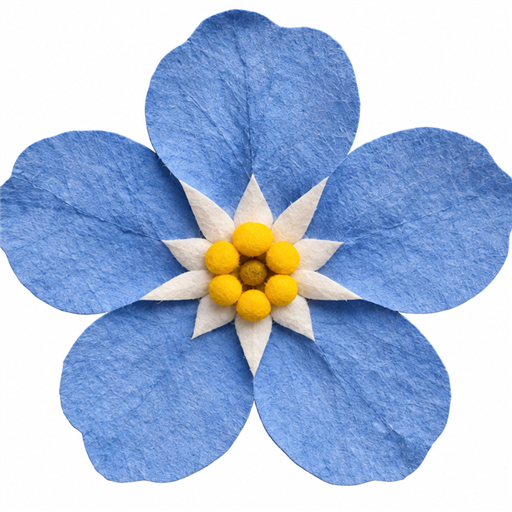
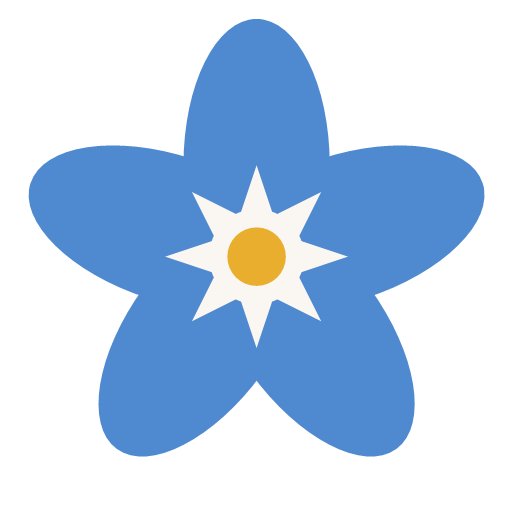
Flor del símbolo: sol de rayos y botón amarillo (Guía del símbolo)
Sustituye el centro plano de la flor (disco + punto azul) por el sol de
rayos blancos y el botón amarillo que describe la guía de marca de la
promotora (2026-11-18): --color-flower pasa a su azul definitivo
(#4F8AD0) y se añaden --color-flower-button (#E9AE2E) y --color-ocre
(#C8965C) como tokens nuevos, sin tocar --color-tinta del texto general
(se queda en verde oliva, a petición explícita).

Aplicado en FlowerIcon.tsx (cabecera, panel admin) y en el centro del
marcador del mapa (sin los rayos, ilegibles a ese tamaño — solo el botón
amarillo). Favicon (app/icon.png, apple-icon.png) regenerado desde el
mismo diseño, fondo transparente.

--color-flower-ink (#2C2217, versión a una tinta del símbolo) queda
definido para uso futuro, todavía sin aplicar en ningún componente.

diff --git a/components/FlowerIcon.tsx b/components/FlowerIcon.tsx
@@ -3,11 +3,14 @@ type Props = {
   className?: string
 }
 
-// La flor del no-me-olvides: 5 pétalos en torno a un centro claro.
-// Usada en la cabecera pública y en el panel de administración.
-// Color azul de la propia flor (--color-flower, fuera de la paleta de 3
-// colores a propósito — es la firma del símbolo, no del texto/UI; terracota
-// sigue reservado para botones, enlaces y marcadores del mapa).
+// La flor del no-me-olvides: 5 pétalos azules en torno al sol de rayos
+// blancos (el centro real de la flor) y un botón amarillo — construida
+// siguiendo la "Guía del símbolo" de la promotora (2026-11-18). Usada en
+// la cabecera pública, el panel de administración y el favicon.
+// Azul de los pétalos (--color-flower) y amarillo del botón
+// (--color-flower-button) fuera de la paleta de 3 colores a propósito —
+// son la firma del símbolo, no del texto/UI; terracota sigue reservado
+// para botones, enlaces y marcadores del mapa.
 export function FlowerIcon({ size = 26, className }: Props) {
   return (
     <svg
@@ -31,8 +34,18 @@ export function FlowerIcon({ size = 26, className }: Props) {
           transform={`rotate(${deg} 14 14) translate(0 -5)`}
         />
       ))}
-      <circle cx="14" cy="14" r="4" fill="var(--color-papel)" />
-      <circle cx="14" cy="14" r="2.5" fill="var(--color-flower)" />
+      <g transform="translate(14 14)">
+        {[0, 45, 90, 135, 180, 225, 270, 315].map((deg) => (
+          <polygon
+            key={deg}
+            points="-0.9,2.3 0.9,2.3 0,5"
+            fill="var(--color-papel)"
+            transform={`rotate(${deg})`}
+          />
+        ))}
+        <circle cx="0" cy="0" r="2.6" fill="var(--color-papel)" />
+        <circle cx="0" cy="0" r="1.6" fill="var(--color-flower-button)" />
+      </g>
     </svg>
   )
 }

diff --git a/app/globals.css b/app/globals.css
@@ -38,11 +38,18 @@
   --color-sage-dark:       var(--color-olivo);
   --color-cream:           var(--color-papel);
   --color-cream-dark:      var(--color-papel-hondo);
-  /* La flor del no-me-olvides recupera su azul real (fuera de la paleta de
-     3 colores a propósito): es el color de la planta en la naturaleza, y
-     queda como firma de marca solo para el símbolo — nunca para texto,
-     botones o enlaces, que siguen en terracota. */
-  --color-flower:          #6B8CB8;
+  /* La flor del no-me-olvides (fuera de la paleta de 3 colores a
+     propósito): es el color de la planta en la naturaleza, y queda como
+     firma de marca solo para el símbolo — nunca para texto, botones o
+     enlaces, que siguen en terracota. Valores de la "Guía del símbolo"
+     (2026-11-18): pétalos azules, sol de rayos en --color-papel y botón
+     amarillo en el centro. --color-flower-ink (marrón oscuro) es solo para
+     la versión a una tinta del símbolo — NO sustituye a --color-tinta del
+     texto general, que sigue en verde oliva a petición de la promotora. */
+  --color-flower:          #4F8AD0;
+  --color-flower-button:   #E9AE2E;
+  --color-flower-ink:      #2C2217;
+  --color-ocre:            #C8965C;
   --color-text:            var(--color-tinta);
 }
 

diff --git a/components/Map.tsx b/components/Map.tsx
@@ -33,7 +33,10 @@ const SPAIN_BOUNDS: [[number, number], [number, number]] = [
 // Vuelve a la forma de pin tras el cambio a insignia circular del
 // 2026-11-04, pero conserva la flor como motivo (no una chincheta genérica).
 // El path del pin es la silueta clásica de marcador de mapa (círculo que
-// remata en punta), reescalada a un viewBox de 40×40.
+// remata en punta), reescalada a un viewBox de 40×40. Centro de la flor
+// con botón amarillo (--color-flower-button), igual que FlowerIcon.tsx,
+// pero sin los rayos del sol: a este tamaño no se distinguirían (ver
+// "Guía del símbolo", regla de tamaño mínimo 24px).
 const MARKER_SVG = `
 <svg xmlns="http://www.w3.org/2000/svg" width="40" height="40" viewBox="0 0 40 40" aria-hidden="true">
   <path
@@ -51,7 +54,7 @@ const MARKER_SVG = `
       )
       .join('')}
     <circle cx="0" cy="0" r="1.6" fill="var(--color-papel)"/>
-    <circle cx="0" cy="0" r="1" fill="var(--color-flower)"/>
+    <circle cx="0" cy="0" r="1" fill="var(--color-flower-button)"/>
   </g>
 </svg>`
 
